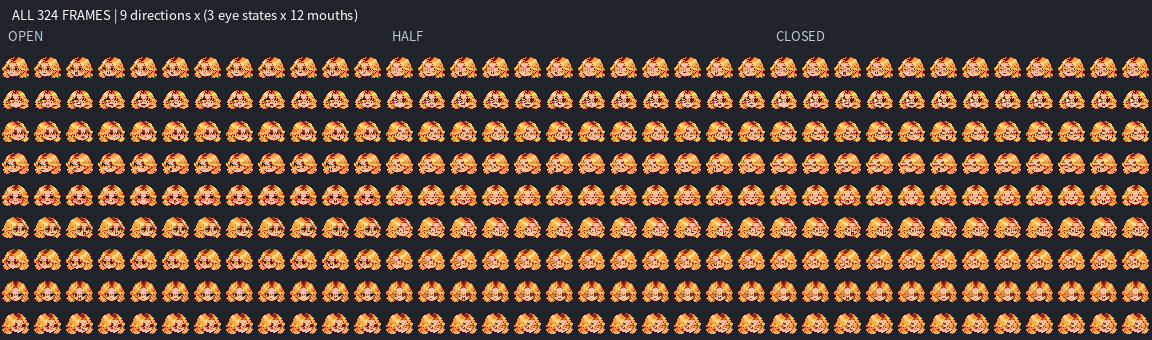
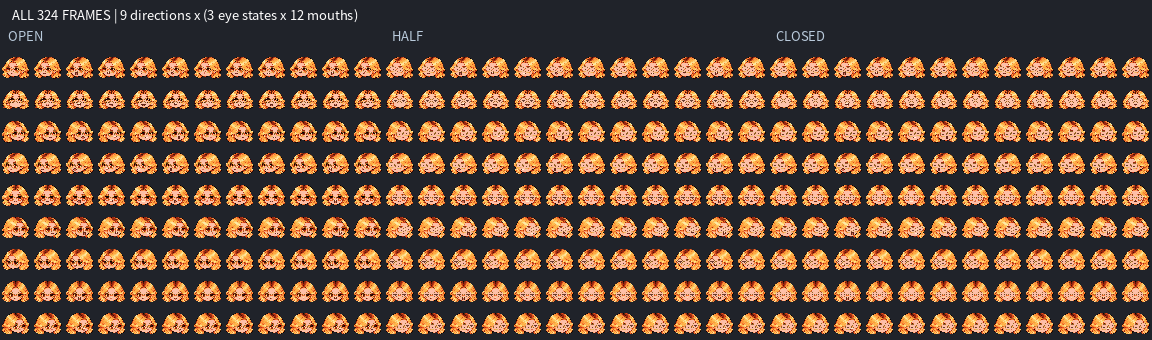
Add all-direction eye regression review and regenerate greeting GIFs

diff --git a/previews/README.md b/previews/README.md
@@ -34,3 +34,5 @@ The UP pose now uses a dedicated frontal, upward-pitched source with centered no
 
 The lens interiors are fully cleared before drawing, preventing leftover irises.
 These GIFs are silent and use manual timing.
+
+`eye_repair_check.png` compares original open eyes, repaired closed lids, sleepy and wink states across all nine directions.
